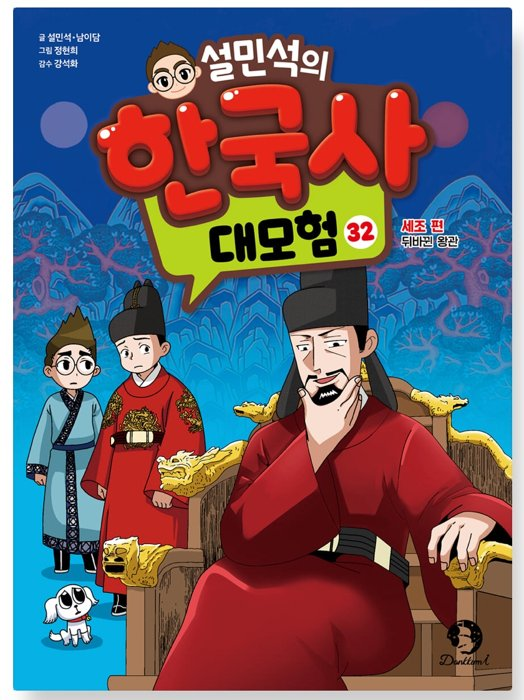
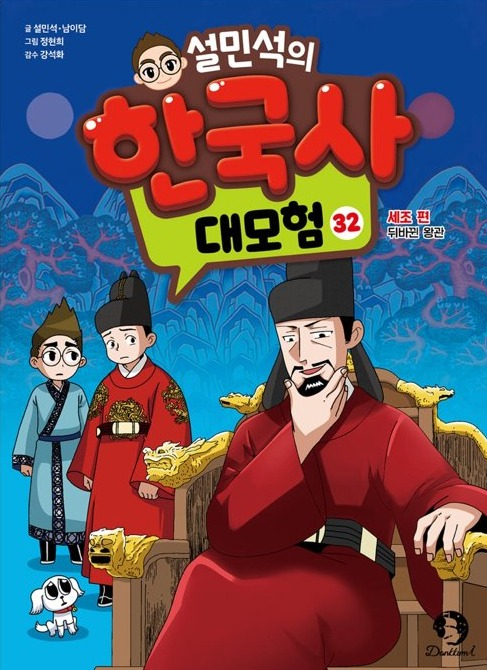
배경 페이지 출처 바로잡기, 책 표지 흰 테두리 잘라내기
- 고민 통계: 대상이 13~18세 청소년(원자료 사회조사)임을 밝히고,
  친구가 2순위인 것처럼 읽히던 '그다음으로' 표현 수정
- 지역아동센터 예산: 1,387→1,174곳과 운영비 동결의 실제 출처인
  지아센뉴스 2025.9.4 기사로 교체, 원문을 확인할 수 없는
  연합회 인용문을 확인된 기사 내용으로 교체, 증액분 193.9억 원으로 정정
- 교육취약 학생 세 영역: 출처(서부교육지원청)에 맞게 문장 수정
- 문제집·만화책 표지 이미지의 흰 여백과 그림자를 잘라내고 옅은 테두리 추가

Claude-Session: https://claude.ai/code/session_01FGrZ4cdNwmi26YedKgABHD

diff --git a/background.html b/background.html
@@ -21,7 +21,7 @@
 <link rel="preconnect" href="https://fonts.googleapis.com">
 <link rel="preconnect" href="https://fonts.gstatic.com" crossorigin>
 <link rel="stylesheet" href="https://fonts.googleapis.com/css2?family=Plus+Jakarta+Sans:wght@700&text=EDU%3ABRIDGE&display=swap">
-<link rel="stylesheet" href="assets/style.css?v=202611280300">
+<link rel="stylesheet" href="assets/style.css?v=202611261300">
 </head>
 <body>
 <header class="nav">
@@ -66,7 +66,7 @@
         </div>
         <div class="big rv">
           <h3 style="font-size:20px">교육복지가 살피는 어려움은<br>한 가지가 아닙니다</h3>
-          <p>서울시교육청은 교육취약 학생을 세 영역으로 나눠 봅니다. 적응 영역에는 심리·정서, 적응·관계, 기초학력의 어려움이 들어갑니다.</p>
+          <p>서울 교육복지에서는 교육취약 학생을 경제·적응·문화 세 영역으로 나눠 봅니다. 적응 영역에는 심리·정서, 적응·관계, 기초학력의 어려움 등이 들어갑니다.</p>
           <div class="tags" style="margin-top:8px"><span>경제</span><span class="on">적응</span><span>문화</span></div>
           <p style="margin-top:8px">이 가운데 정서와 관계는 사람이 곁에 있어야 채워집니다. EDU:BRIDGE는 대학생이 직접 할 수 있는 이 부분에 집중하기로 했습니다.</p>
           <p class="src">출처: <a href="#sources">서울특별시서부교육지원청, 교육복지 지원대상</a></p>
@@ -96,13 +96,13 @@
           <p class="src">출처: <a href="#sources">보건복지부, 2023년 아동종합실태조사</a>(18세 미만 아동을 키우는 5,753가구 조사, 9~17세는 아동이 직접 응답, 2024.6.6 발표)</p>
         </div>
         <div class="big rv">
-          <h3 style="font-size:20px">고민으로 친구를 꼽는<br>아이들도 늘었습니다</h3>
-          <p>아동·청소년의 고민 1순위는 공부입니다. 그다음으로 친구를 고민으로 꼽은 비율이 4년 사이 7%p 올랐습니다.</p>
+          <h3 style="font-size:20px">고민으로 친구를 꼽는<br>청소년도 늘었습니다</h3>
+          <p>13~18세 청소년의 고민 1순위는 줄곧 공부입니다. 친구를 고민으로 꼽은 비율도 4년 사이 27.0%에서 34.0%로 7%p 올랐습니다.</p>
           <div class="trend">
             <div class="trow"><span>2020</span><div class="tbar"><i style="width:54%"></i></div><strong>27.0%</strong></div>
             <div class="trow now"><span>2024</span><div class="tbar"><i style="width:68%"></i></div><strong>34.0%</strong></div>
           </div>
-          <p class="src">출처: <a href="#sources">아동권리보장원, 2025 아동분야 주요통계</a>(2026.5.4 발표, 복수응답), 경향신문·한국경제 보도 재인용</p>
+          <p class="src">출처: <a href="#sources">아동권리보장원, 2025 아동분야 주요통계</a>(2026.5.4 발표, 13~18세, 복수응답, 원자료는 사회조사), 경향신문·한국경제 보도 재인용</p>
         </div>
       </div>
     </div>
@@ -140,14 +140,14 @@
           </div>
           <div class="pair">
             <div><b>동결</b><p>기본 운영비, 2025년과 같은 수준</p></div>
-            <div><b>193<em>억 원</em></b><p>국회 보건복지위원회 증액분, 모두 인건비·인력 항목</p></div>
+            <div><b>193.9<em>억 원</em></b><p>국회 보건복지위원회 증액분, 모두 인건비·인력 항목</p></div>
           </div>
-          <p class="src">출처: <a href="#sources">한국지역아동센터연합회, 2026년도 지역아동센터 정부 예산안 분석 및 평가</a>(2025.9.25) · <a href="#sources">지아센뉴스</a>(2025.11.18)</p>
+          <p class="src">출처: <a href="#sources">지아센뉴스, 2026년 지역아동센터 예산안</a>(2025.9.4) · <a href="#sources">국회 보건복지위원회 증액 의결</a>(2025.11.18)</p>
         </div>
         <div class="big rv">
           <h3 style="font-size:20px">늘어난 예산은<br>대부분 인건비로</h3>
           <p>전체 예산은 늘었지만, 늘어난 몫은 대부분 종사자 인건비입니다. 아이들 프로그램과 물품에 쓰는 운영비는 그대로입니다.</p>
-          <p>한국지역아동센터연합회는 "프로그램비와 운영비가 분리되지 않은 채 동결되어, 아동에게 제공되는 서비스의 질적 하락이 우려된다"고 평가했습니다.</p>
+          <p>현장에서는 "운영비 동결은 사실상 삭감"이라는 목소리가 나왔습니다. 국회에서 늘어난 193억 8,700만 원도 종사자 인건비와 생활복지사 추가 배치에 쓰입니다.</p>
         </div>
       </div>
     </div>
@@ -158,16 +158,16 @@
       <div class="head rv">
         <span class="chap">참고 자료</span>
         <h2>출처</h2>
-        <p>사교육비와 실태조사 수치는 정부 브리핑과 보도자료, 이를 보도한 기사에서 확인했습니다. 지역아동센터 예산은 한국지역아동센터연합회 분석 자료와 관련 기사를 참고했습니다.</p>
+        <p>사교육비와 실태조사 수치는 정부 브리핑과 보도자료, 이를 보도한 기사에서 확인했습니다. 지역아동센터 예산은 지역아동센터 전문 매체 지아센뉴스의 보도를 참고했습니다.</p>
       </div>
       <ol class="sources">
         <li>국가데이터처·교육부, 2025년 초중고 사교육비조사 결과 (2026.3.12 발표) — <a href="https://www.korea.kr/briefing/policyBriefingView.do?newsId=156748552" target="_blank" rel="noopener">대한민국 정책브리핑</a> · <a href="https://biz.heraldcorp.com/article/10692640" target="_blank" rel="noopener">헤럴드경제, 2026.3.12</a> · <a href="https://www.etoday.co.kr/news/view/2564658" target="_blank" rel="noopener">이투데이, 2026.3.12</a></li>
         <li>보건복지부, 2023년 아동종합실태조사 결과 발표 (2023.9~12월 조사, 2024.6.6 발표) — <a href="https://www.mohw.go.kr/board.es?mid=a10503010100&amp;bid=0027&amp;act=view&amp;list_no=1481860" target="_blank" rel="noopener">보건복지부 보도자료</a> · <a href="https://www.mt.co.kr/economy/2024/06/06/2024060519353737616" target="_blank" rel="noopener">머니투데이, 2024.6.6</a></li>
-        <li>아동권리보장원, 2025 아동분야 주요통계 (2026.5.4 발표) — <a href="https://www.khan.co.kr/article/202605040745001/" target="_blank" rel="noopener">경향신문, 2026.5.4</a> · <a href="https://www.hankyung.com/article/2026050433287" target="_blank" rel="noopener">한국경제, 2026.5.4</a></li>
+        <li>아동권리보장원, 2025 아동분야 주요통계 (2026.5.4 발표, 고민 항목은 13~18세 대상 사회조사 2020·2024년 결과) — <a href="https://www.khan.co.kr/article/202605040745001/" target="_blank" rel="noopener">경향신문, 2026.5.4</a> · <a href="https://www.hankyung.com/article/2026050433287" target="_blank" rel="noopener">한국경제, 2026.5.4</a></li>
         <li>서울특별시서부교육지원청, 교육복지 지원대상 — <a href="http://sbedu.sen.go.kr/CMS/openedu/openedu06/openedu0601/openedu060102/index.html" target="_blank" rel="noopener">교육복지 소개</a></li>
         <li>서울특별시교육청, 지역교육복지센터 현황 — <a href="https://www.data.go.kr/data/15081846/fileData.do" target="_blank" rel="noopener">공공데이터포털</a></li>
         <li>서대문교육복지센터, 센터 소개 자료(비전·추진방향·사업 영역) — <a href="https://blog.naver.com/sdmlove1392" target="_blank" rel="noopener">센터 블로그</a></li>
-        <li>한국지역아동센터연합회, 「2026년도 지역아동센터 정부 예산안에 대한 분석 및 평가」 (2025.9.25)</li>
+        <li>지아센뉴스, 「2026년 지역아동센터 예산안, 현장 체감은 '후퇴'…운영비 동결에 현장은 뿔났다」 (2025.9.4) — <a href="https://jiasen.kr/pms250904/" target="_blank" rel="noopener">기사</a></li>
         <li>지아센뉴스, 「2026년 지역아동센터 예산, 국회 보건복지위원회서 193억8천만 원 증액 의결」 (2025.11.18) — <a href="https://jiasen.kr/pjj20251118/" target="_blank" rel="noopener">기사</a></li>
         <li>서울특별시립 아동푸른센터, 센터 개요 — <a href="http://www.seobuchild.com/" target="_blank" rel="noopener">기관 누리집</a></li>
         <li>서울특별시, 아동일시보호시설 — <a href="https://news.seoul.go.kr/welfare/archives/559251" target="_blank" rel="noopener">서울시 복지 누리집</a></li>

diff --git a/assets/style.css b/assets/style.css
@@ -722,14 +722,14 @@ section{padding-block:88px}
 @media (max-width:860px){.story-split{grid-template-columns:1fr}.story-ph{min-height:0;aspect-ratio:4/3}}
 /* 나눔 카드: 책 표지 */
 .book-cover{margin:0;border-radius:14px;background:var(--bg-2);border:1px solid var(--line);display:flex;justify-content:center;align-items:center;padding:20px;height:260px;overflow:hidden}
-.book-cover img{height:100%;width:auto;max-width:100%;object-fit:contain;border-radius:4px;filter:drop-shadow(0 6px 14px rgba(15,23,42,.14))}
+.book-cover img{height:100%;width:auto;max-width:100%;object-fit:contain;border-radius:4px;outline:1px solid rgba(15,23,42,.08);outline-offset:-1px;filter:drop-shadow(0 6px 14px rgba(15,23,42,.14))}
 @media (max-width:520px){.book-cover{height:220px;padding:16px}}
 /* 소개 나눔: 제목 옆 책 표지 */
 .share-head{display:grid;grid-template-columns:minmax(0,1fr) auto;gap:32px;align-items:end;margin-bottom:40px}
 .share-head .head{margin-bottom:0}
 .share-books{display:flex;gap:16px;align-items:flex-end}
 .share-books figure{margin:0;display:grid;gap:8px;justify-items:center}
-.share-books img{height:170px;width:auto;border-radius:4px;filter:drop-shadow(0 8px 16px rgba(15,23,42,.16))}
+.share-books img{height:170px;width:auto;border-radius:4px;outline:1px solid rgba(15,23,42,.08);outline-offset:-1px;filter:drop-shadow(0 8px 16px rgba(15,23,42,.16))}
 .share-books figure:first-child{transform:rotate(-4deg)}
 .share-books figure:last-child{transform:rotate(3deg)}
 .share-books figcaption{font-size:12px;font-weight:600;color:var(--muted)}

diff --git a/about.html b/about.html
@@ -21,7 +21,7 @@
 <link rel="preconnect" href="https://fonts.googleapis.com">
 <link rel="preconnect" href="https://fonts.gstatic.com" crossorigin>
 <link rel="stylesheet" href="https://fonts.googleapis.com/css2?family=Plus+Jakarta+Sans:wght@700&text=EDU%3ABRIDGE&display=swap">
-<link rel="stylesheet" href="assets/style.css?v=202611280300">
+<link rel="stylesheet" href="assets/style.css?v=202611261300">
 </head>
 <body>
 <header class="nav">

diff --git a/activity.html b/activity.html
@@ -21,7 +21,7 @@
 <link rel="preconnect" href="https://fonts.googleapis.com">
 <link rel="preconnect" href="https://fonts.gstatic.com" crossorigin>
 <link rel="stylesheet" href="https://fonts.googleapis.com/css2?family=Plus+Jakarta+Sans:wght@700&text=EDU%3ABRIDGE&display=swap">
-<link rel="stylesheet" href="assets/style.css?v=202611280300">
+<link rel="stylesheet" href="assets/style.css?v=202611261300">
 </head>
 <body>
 <header class="nav">

diff --git a/archive.html b/archive.html
@@ -21,7 +21,7 @@
 <link rel="preconnect" href="https://fonts.googleapis.com">
 <link rel="preconnect" href="https://fonts.gstatic.com" crossorigin>
 <link rel="stylesheet" href="https://fonts.googleapis.com/css2?family=Plus+Jakarta+Sans:wght@700&text=EDU%3ABRIDGE&display=swap">
-<link rel="stylesheet" href="assets/style.css?v=202611280300">
+<link rel="stylesheet" href="assets/style.css?v=202611261300">
 </head>
 <body>
 <header class="nav">

diff --git a/index.html b/index.html
@@ -21,7 +21,7 @@
 <link rel="preconnect" href="https://fonts.googleapis.com">
 <link rel="preconnect" href="https://fonts.gstatic.com" crossorigin>
 <link rel="stylesheet" href="https://fonts.googleapis.com/css2?family=Plus+Jakarta+Sans:wght@700&text=EDU%3ABRIDGE&display=swap">
-<link rel="stylesheet" href="assets/style.css?v=202611280300">
+<link rel="stylesheet" href="assets/style.css?v=202611261300">
 </head>
 <body>
 <header class="nav">

diff --git a/partners.html b/partners.html
@@ -21,7 +21,7 @@
 <link rel="preconnect" href="https://fonts.googleapis.com">
 <link rel="preconnect" href="https://fonts.gstatic.com" crossorigin>
 <link rel="stylesheet" href="https://fonts.googleapis.com/css2?family=Plus+Jakarta+Sans:wght@700&text=EDU%3ABRIDGE&display=swap">
-<link rel="stylesheet" href="assets/style.css?v=202611280300">
+<link rel="stylesheet" href="assets/style.css?v=202611261300">
 </head>
 <body>
 <header class="nav">

diff --git a/result.html b/result.html
@@ -21,7 +21,7 @@
 <link rel="preconnect" href="https://fonts.googleapis.com">
 <link rel="preconnect" href="https://fonts.gstatic.com" crossorigin>
 <link rel="stylesheet" href="https://fonts.googleapis.com/css2?family=Plus+Jakarta+Sans:wght@700&text=EDU%3ABRIDGE&display=swap">
-<link rel="stylesheet" href="assets/style.css?v=202611280300">
+<link rel="stylesheet" href="assets/style.css?v=202611261300">
 </head>
 <body>
 <header class="nav">

diff --git a/team.html b/team.html
@@ -21,7 +21,7 @@
 <link rel="preconnect" href="https://fonts.googleapis.com">
 <link rel="preconnect" href="https://fonts.gstatic.com" crossorigin>
 <link rel="stylesheet" href="https://fonts.googleapis.com/css2?family=Plus+Jakarta+Sans:wght@700&text=EDU%3ABRIDGE&display=swap">
-<link rel="stylesheet" href="assets/style.css?v=202611280300">
+<link rel="stylesheet" href="assets/style.css?v=202611261300">
 </head>
 <body>
 <header class="nav">
